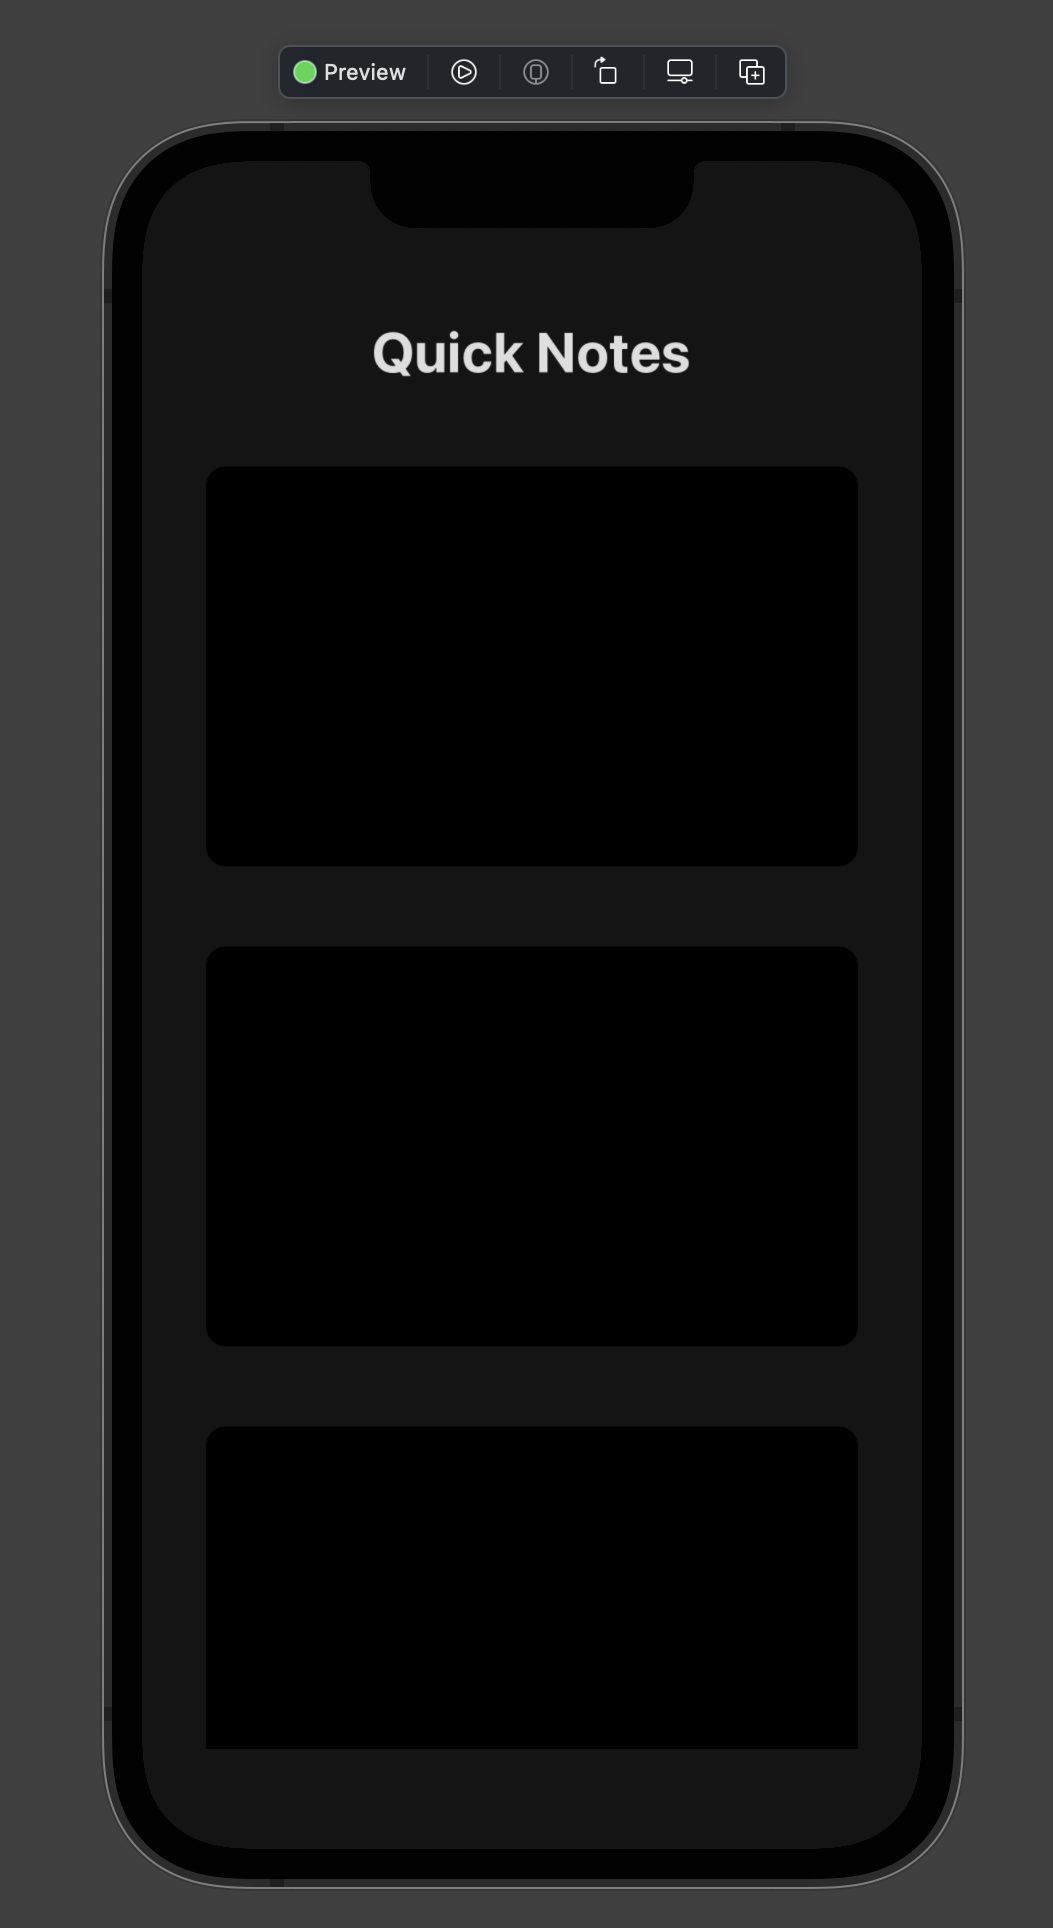
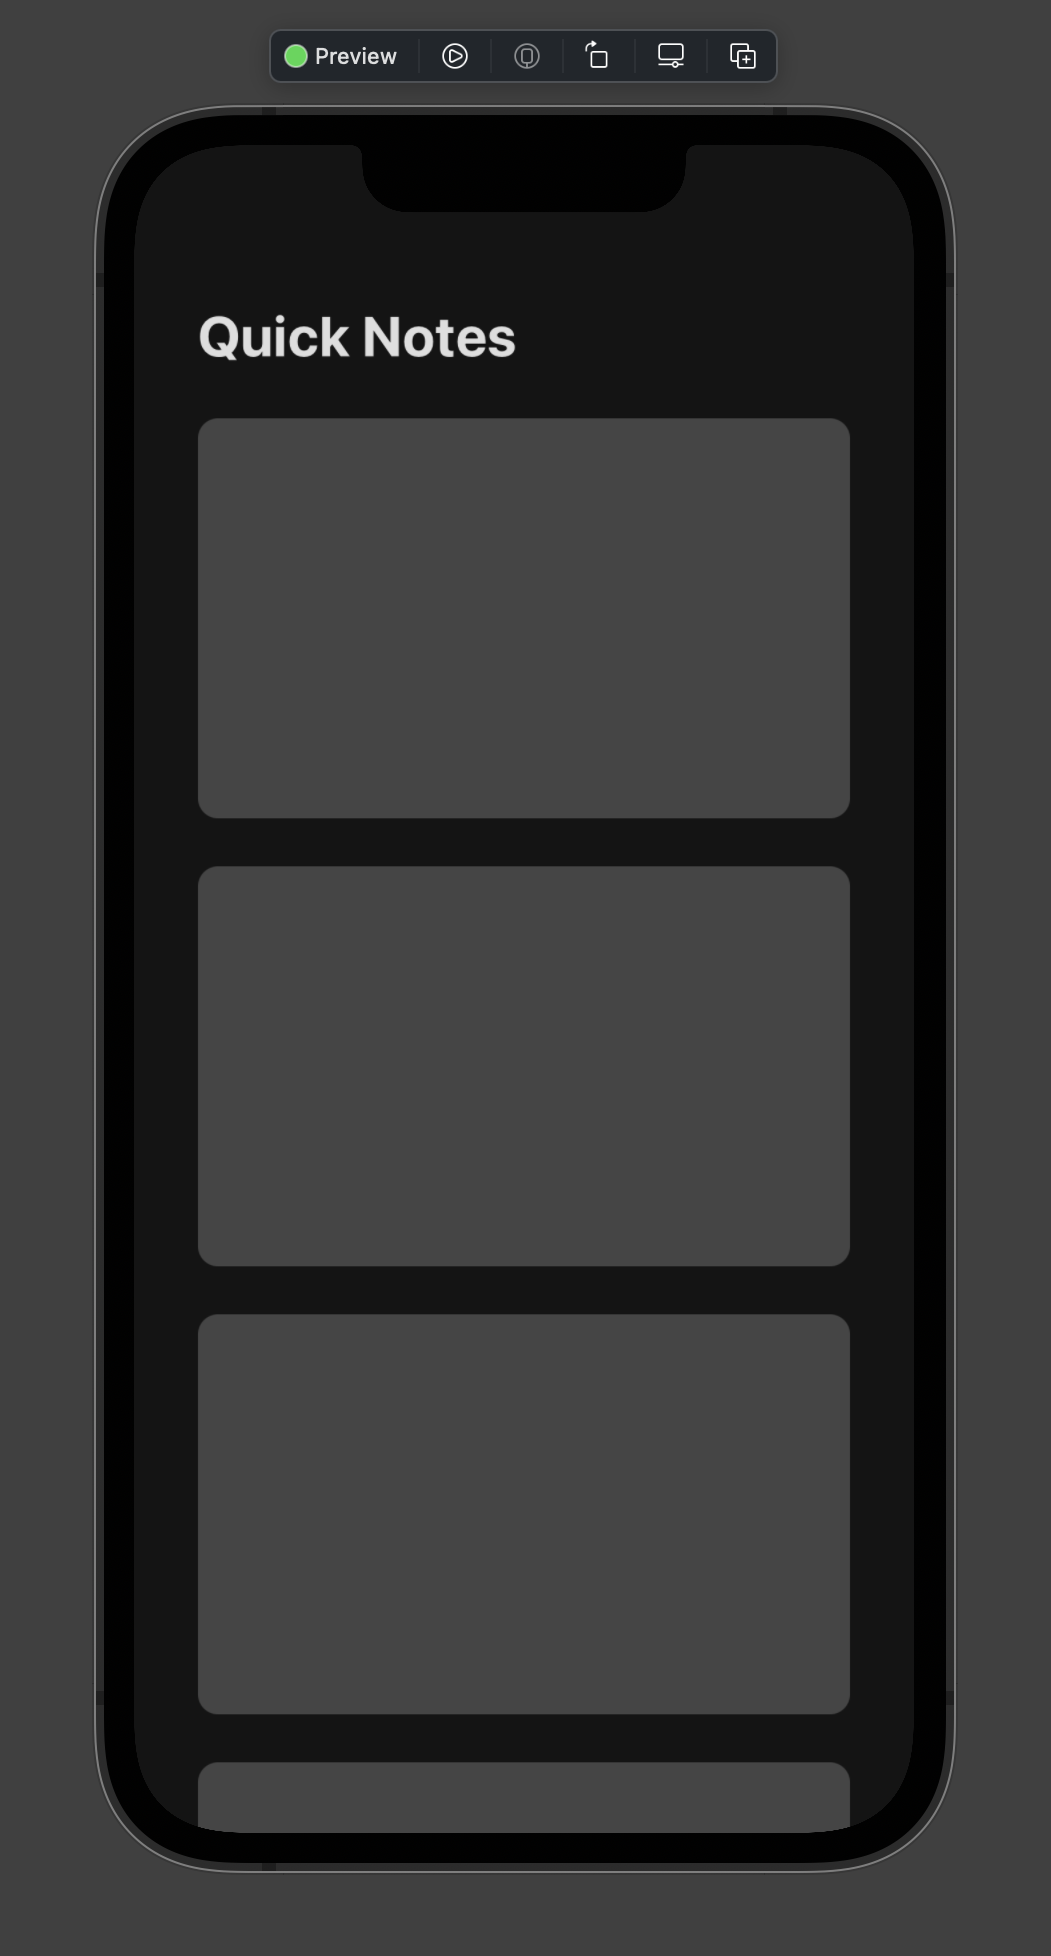
finished up and tweaked app

diff --git a/notes/ContentView.swift b/notes/ContentView.swift
@@ -14,49 +14,60 @@ struct ContentView: View {
     @State private var note4 = ""
     @State private var note5 = ""
     @State private var note6 = ""
-
+    
+    
+    init () {
+        UITextView.appearance().backgroundColor = .init(Color(red: 0.27058823529411763, green: 0.27058823529411763, blue: 0.27058823529411763))
+    }
+    
     var body: some View {
         ScrollView {
-            Text("Quick Notes")
-                .fontWeight(.bold)
-                .padding()
-                .font(.title)
-                .foregroundColor(Color(red: 0.8705882352941177, green: 0.8705882352941177, blue: 0.8705882352941177))
+            
+            HStack {
+                Text("Quick Notes")
+                    .fontWeight(.bold)
+                    .padding()
+                    .font(.title)
+                    .foregroundColor(Color(red: 0.8705882352941177, green: 0.8705882352941177, blue: 0.8705882352941177))
+                Spacer()
+            }
 
             TextEditor(text: $note1)
                 .frame(height: 200)
                 .cornerRadius(10.0)
-                .colorInvert()
-                .padding()
+                .padding([.leading, .bottom, .trailing])
+
+                
 
             TextEditor(text: $note2)
                 .frame(height: 200)
                 .cornerRadius(10.0)
-                .padding()
-                .colorInvert()
+                .padding([.leading, .bottom, .trailing])
+
             TextEditor(text: $note3)
                 .frame(height: 200)
                 .cornerRadius(10.0)
-                .padding()
-                .colorInvert()
+                .padding([.leading, .bottom, .trailing])
+
             TextEditor(text: $note4)
                 .frame(height: 200)
                 .cornerRadius(10.0)
-                .padding()
-                .colorInvert()
+                .padding([.leading, .bottom, .trailing])
+
             TextEditor(text: $note5)
                 .frame(height: 200)
                 .cornerRadius(10.0)
-                .padding()
-                .colorInvert()
+                .padding([.leading, .bottom, .trailing])
+
             TextEditor(text: $note6)
                 .frame(height: 200)
                 .cornerRadius(10.0)
-                .padding()
-                .colorInvert()
+                .padding([.leading, .bottom, .trailing])
         }
         .padding()
         .background(Color(red: 0.0784313725490196, green: 0.0784313725490196, blue: 0.0784313725490196))
+        .ignoresSafeArea(edges: .bottom)
+        
 
     }
 }
@@ -64,5 +75,6 @@ struct ContentView: View {
 struct ContentView_Previews: PreviewProvider {
     static var previews: some View {
         ContentView()
+.previewInterfaceOrientation(.portrait)
     }
 }
